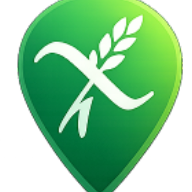
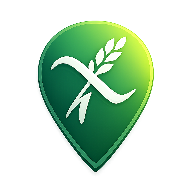
Generado el PWA

diff --git a/public/sw.js b/public/sw.js
@@ -1,1 +1,1 @@
-if(!self.define){let e,s={};const n=(n,a)=>(n=new URL(n+".js",a).href,s[n]||new Promise(s=>{if("document"in self){const e=document.createElement("script");e.src=n,e.onload=s,document.head.appendChild(e)}else e=n,importScripts(n),s()}).then(()=>{let e=s[n];if(!e)throw new Error(`Module ${n} didn’t register its module`);return e}));self.define=(a,i)=>{const t=e||("document"in self?document.currentScript.src:"")||location.href;if(s[t])return;let c={};const l=e=>n(e,t),r={module:{uri:t},exports:c,require:l};s[t]=Promise.all(a.map(e=>r[e]||l(e))).then(e=>(i(...e),c))}}define(["./workbox-4754cb34"],function(e){"use strict";importScripts(),self.skipWaiting(),e.clientsClaim(),e.precacheAndRoute([{url:"/CelimapLOGO.png",revision:"b561ab4a254f186671eb43811cb2695b"},{url:"/_next/app-build-manifest.json",revision:"9923aa5063e3d75868493c5b9c74f6c5"},{url:"/_next/static/4zlx4VnyZhhp_lyjfYR18/_buildManifest.js",revision:"c155cce658e53418dec34664328b51ac"},{url:"/_next/static/4zlx4VnyZhhp_lyjfYR18/_ssgManifest.js",revision:"b6652df95db52feb4daf4eca35380933"},{url:"/_next/static/chunks/117-23a8df4ceb6a25ba.js",revision:"4zlx4VnyZhhp_lyjfYR18"},{url:"/_next/static/chunks/137-4182035b38e72492.js",revision:"4zlx4VnyZhhp_lyjfYR18"},{url:"/_next/static/chunks/554-529c7e2410b8a09c.js",revision:"4zlx4VnyZhhp_lyjfYR18"},{url:"/_next/static/chunks/623-e054f344870558fd.js",revision:"4zlx4VnyZhhp_lyjfYR18"},{url:"/_next/static/chunks/645-3498bccd001dcb42.js",revision:"4zlx4VnyZhhp_lyjfYR18"},{url:"/_next/static/chunks/741-b65201d207d75e6a.js",revision:"4zlx4VnyZhhp_lyjfYR18"},{url:"/_next/static/chunks/84-27d09915b372d4b6.js",revision:"4zlx4VnyZhhp_lyjfYR18"},{url:"/_next/static/chunks/878-9eaf8ddda216c435.js",revision:"4zlx4VnyZhhp_lyjfYR18"},{url:"/_next/static/chunks/927-26f714580509d835.js",revision:"4zlx4VnyZhhp_lyjfYR18"},{url:"/_next/static/chunks/95-230f70ea79eeffa7.js",revision:"4zlx4VnyZhhp_lyjfYR18"},{url:"/_next/static/chunks/965-35825886126a7f91.js",revision:"4zlx4VnyZhhp_lyjfYR18"},{url:"/_next/static/chunks/972-270c0413e286feca.js",revision:"4zlx4VnyZhhp_lyjfYR18"},{url:"/_next/static/chunks/991-9ff13ba5fa23f24d.js",revision:"4zlx4VnyZhhp_lyjfYR18"},{url:"/_next/static/chunks/app/_not-found/page-17c92c4ade106169.js",revision:"4zlx4VnyZhhp_lyjfYR18"},{url:"/_next/static/chunks/app/admin/page-9cee8c1904e23cb7.js",revision:"4zlx4VnyZhhp_lyjfYR18"},{url:"/_next/static/chunks/app/categoria/%5Bcategory%5D/%5BciudadSlug%5D/page-cb84f8d7add51cd7.js",revision:"4zlx4VnyZhhp_lyjfYR18"},{url:"/_next/static/chunks/app/categoria/%5Bcategory%5D/page-0516bcef67e1d846.js",revision:"4zlx4VnyZhhp_lyjfYR18"},{url:"/_next/static/chunks/app/explorar/layout-ab5ef75f75a6b41c.js",revision:"4zlx4VnyZhhp_lyjfYR18"},{url:"/_next/static/chunks/app/explorar/page-92ac7effd697e6e9.js",revision:"4zlx4VnyZhhp_lyjfYR18"},{url:"/_next/static/chunks/app/favoritos/page-ee48a6f6b7745c25.js",revision:"4zlx4VnyZhhp_lyjfYR18"},{url:"/_next/static/chunks/app/layout-dd8589707474a3b2.js",revision:"4zlx4VnyZhhp_lyjfYR18"},{url:"/_next/static/chunks/app/listas/%5Bid%5D/layout-126ac20d7409d2df.js",revision:"4zlx4VnyZhhp_lyjfYR18"},{url:"/_next/static/chunks/app/listas/%5Bid%5D/page-b0ddd6fec4030ef5.js",revision:"4zlx4VnyZhhp_lyjfYR18"},{url:"/_next/static/chunks/app/listas/page-7448c9bd6dbd4382.js",revision:"4zlx4VnyZhhp_lyjfYR18"},{url:"/_next/static/chunks/app/login/page-60fbf9d76a26bfce.js",revision:"4zlx4VnyZhhp_lyjfYR18"},{url:"/_next/static/chunks/app/lugar/%5Bid%5D/layout-3836432c2e122033.js",revision:"4zlx4VnyZhhp_lyjfYR18"},{url:"/_next/static/chunks/app/lugar/%5Bid%5D/page-da7ab1a46264efcb.js",revision:"4zlx4VnyZhhp_lyjfYR18"},{url:"/_next/static/chunks/app/mapa/layout-14d49915c9907567.js",revision:"4zlx4VnyZhhp_lyjfYR18"},{url:"/_next/static/chunks/app/mapa/page-62a5fb9c48e473c9.js",revision:"4zlx4VnyZhhp_lyjfYR18"},{url:"/_next/static/chunks/app/not-found-66286987ef04752c.js",revision:"4zlx4VnyZhhp_lyjfYR18"},{url:"/_next/static/chunks/app/page-521f78f52ff763e2.js",revision:"4zlx4VnyZhhp_lyjfYR18"},{url:"/_next/static/chunks/app/perfil/page-3a73566e024c2fc2.js",revision:"4zlx4VnyZhhp_lyjfYR18"},{url:"/_next/static/chunks/app/sin-gluten-argentina/page-db04f7cef4af05ee.js",revision:"4zlx4VnyZhhp_lyjfYR18"},{url:"/_next/static/chunks/app/sin-gluten/%5BciudadSlug%5D/%5BcategoriaSlug%5D/page-beb5e73ca340ab57.js",revision:"4zlx4VnyZhhp_lyjfYR18"},{url:"/_next/static/chunks/app/sin-gluten/%5BciudadSlug%5D/page-5670683427c2aca7.js",revision:"4zlx4VnyZhhp_lyjfYR18"},{url:"/_next/static/chunks/app/sugerir/layout-3b6f839e48a3bdaa.js",revision:"4zlx4VnyZhhp_lyjfYR18"},{url:"/_next/static/chunks/app/sugerir/page-95c62e303b2734f6.js",revision:"4zlx4VnyZhhp_lyjfYR18"},{url:"/_next/static/chunks/app/top-sin-gluten/ciudad/%5BciudadSlug%5D/page-257ccc8135c9a7e3.js",revision:"4zlx4VnyZhhp_lyjfYR18"},{url:"/_next/static/chunks/c36f3faa-4264f80c93dfb244.js",revision:"4zlx4VnyZhhp_lyjfYR18"},{url:"/_next/static/chunks/fd9d1056-ed5914ba420c798d.js",revision:"4zlx4VnyZhhp_lyjfYR18"},{url:"/_next/static/chunks/framework-f66176bb897dc684.js",revision:"4zlx4VnyZhhp_lyjfYR18"},{url:"/_next/static/chunks/main-app-d713edd7a5b7b55b.js",revision:"4zlx4VnyZhhp_lyjfYR18"},{url:"/_next/static/chunks/main-bfb051cc14b70abd.js",revision:"4zlx4VnyZhhp_lyjfYR18"},{url:"/_next/static/chunks/pages/_app-72b849fbd24ac258.js",revision:"4zlx4VnyZhhp_lyjfYR18"},{url:"/_next/static/chunks/pages/_error-7ba65e1336b92748.js",revision:"4zlx4VnyZhhp_lyjfYR18"},{url:"/_next/static/chunks/polyfills-42372ed130431b0a.js",revision:"846118c33b2c0e922d7b3a7676f81f6f"},{url:"/_next/static/chunks/webpack-3ee1050149d7ab73.js",revision:"4zlx4VnyZhhp_lyjfYR18"},{url:"/_next/static/css/0c7fd1349b5742ad.css",revision:"0c7fd1349b5742ad"},{url:"/_next/static/css/46b5da72eaf48baa.css",revision:"46b5da72eaf48baa"},{url:"/_next/static/media/636a5ac981f94f8b-s.p.woff2",revision:"52d04440a9faae0db9adc6cdc844099b"},{url:"/_next/static/media/6fe53d21e6e7ebd8-s.woff2",revision:"2591db816b61d44b6e87ba79d13622b2"},{url:"/_next/static/media/8ebc6e9dde468c4a-s.woff2",revision:"196acbb650c75807ea2f0ef36edbd186"},{url:"/_next/static/media/9e7b0a821b9dfcb4-s.woff2",revision:"5ffe46eeb00dd9fa8a70cb10ccc3817e"},{url:"/celimaplogocompleto.png",revision:"945ad560d3703b2296d1424d33615228"},{url:"/favicon.ico",revision:"6a99c575ab87f8c7d1ed1e52e7e349ce"},{url:"/icon-192.png",revision:"adf8bada41d66d2e156b2e283f65f039"},{url:"/icon-512.png",revision:"e9b782c55ead80236cc297fc319a1e12"},{url:"/manifest.webmanifest",revision:"f45f491cc7b9d072fafac565c8223ccb"},{url:"/maskable-512.png",revision:"446de51ddf3a2cef9952c1b5f2ff0ba0"},{url:"/noise.png",revision:"d0e98e8b8e55bcfbb15a0ae94f46910f"},{url:"/og.png",revision:"51fca7a62dbc16634937de64913c1458"},{url:"/sin-gluten-logo.png",revision:"e9b7ea67ad79ccb304a525c81c2890dc"}],{ignoreURLParametersMatching:[]}),e.cleanupOutdatedCaches(),e.registerRoute("/",new e.NetworkFirst({cacheName:"start-url",plugins:[{cacheWillUpdate:async({request:e,response:s,event:n,state:a})=>s&&"opaqueredirect"===s.type?new Response(s.body,{status:200,statusText:"OK",headers:s.headers}):s}]}),"GET"),e.registerRoute(/^https:\/\/fonts\.(?:gstatic)\.com\/.*/i,new e.CacheFirst({cacheName:"google-fonts-webfonts",plugins:[new e.ExpirationPlugin({maxEntries:4,maxAgeSeconds:31536e3})]}),"GET"),e.registerRoute(/^https:\/\/fonts\.(?:googleapis)\.com\/.*/i,new e.StaleWhileRevalidate({cacheName:"google-fonts-stylesheets",plugins:[new e.ExpirationPlugin({maxEntries:4,maxAgeSeconds:604800})]}),"GET"),e.registerRoute(/\.(?:eot|otf|ttc|ttf|woff|woff2|font.css)$/i,new e.StaleWhileRevalidate({cacheName:"static-font-assets",plugins:[new e.ExpirationPlugin({maxEntries:4,maxAgeSeconds:604800})]}),"GET"),e.registerRoute(/\.(?:jpg|jpeg|gif|png|svg|ico|webp)$/i,new e.StaleWhileRevalidate({cacheName:"static-image-assets",plugins:[new e.ExpirationPlugin({maxEntries:64,maxAgeSeconds:86400})]}),"GET"),e.registerRoute(/\/_next\/image\?url=.+$/i,new e.StaleWhileRevalidate({cacheName:"next-image",plugins:[new e.ExpirationPlugin({maxEntries:64,maxAgeSeconds:86400})]}),"GET"),e.registerRoute(/\.(?:mp3|wav|ogg)$/i,new e.CacheFirst({cacheName:"static-audio-assets",plugins:[new e.RangeRequestsPlugin,new e.ExpirationPlugin({maxEntries:32,maxAgeSeconds:86400})]}),"GET"),e.registerRoute(/\.(?:mp4)$/i,new e.CacheFirst({cacheName:"static-video-assets",plugins:[new e.RangeRequestsPlugin,new e.ExpirationPlugin({maxEntries:32,maxAgeSeconds:86400})]}),"GET"),e.registerRoute(/\.(?:js)$/i,new e.StaleWhileRevalidate({cacheName:"static-js-assets",plugins:[new e.ExpirationPlugin({maxEntries:32,maxAgeSeconds:86400})]}),"GET"),e.registerRoute(/\.(?:css|less)$/i,new e.StaleWhileRevalidate({cacheName:"static-style-assets",plugins:[new e.ExpirationPlugin({maxEntries:32,maxAgeSeconds:86400})]}),"GET"),e.registerRoute(/\/_next\/data\/.+\/.+\.json$/i,new e.StaleWhileRevalidate({cacheName:"next-data",plugins:[new e.ExpirationPlugin({maxEntries:32,maxAgeSeconds:86400})]}),"GET"),e.registerRoute(/\.(?:json|xml|csv)$/i,new e.NetworkFirst({cacheName:"static-data-assets",plugins:[new e.ExpirationPlugin({maxEntries:32,maxAgeSeconds:86400})]}),"GET"),e.registerRoute(({url:e})=>{if(!(self.origin===e.origin))return!1;const s=e.pathname;return!s.startsWith("/api/auth/")&&!!s.startsWith("/api/")},new e.NetworkFirst({cacheName:"apis",networkTimeoutSeconds:10,plugins:[new e.ExpirationPlugin({maxEntries:16,maxAgeSeconds:86400})]}),"GET"),e.registerRoute(({url:e})=>{if(!(self.origin===e.origin))return!1;return!e.pathname.startsWith("/api/")},new e.NetworkFirst({cacheName:"others",networkTimeoutSeconds:10,plugins:[new e.ExpirationPlugin({maxEntries:32,maxAgeSeconds:86400})]}),"GET"),e.registerRoute(({url:e})=>!(self.origin===e.origin),new e.NetworkFirst({cacheName:"cross-origin",networkTimeoutSeconds:10,plugins:[new e.ExpirationPlugin({maxEntries:32,maxAgeSeconds:3600})]}),"GET")});
+if(!self.define){let e,s={};const i=(i,a)=>(i=new URL(i+".js",a).href,s[i]||new Promise(s=>{if("document"in self){const e=document.createElement("script");e.src=i,e.onload=s,document.head.appendChild(e)}else e=i,importScripts(i),s()}).then(()=>{let e=s[i];if(!e)throw new Error(`Module ${i} didn’t register its module`);return e}));self.define=(a,n)=>{const t=e||("document"in self?document.currentScript.src:"")||location.href;if(s[t])return;let c={};const r=e=>i(e,t),u={module:{uri:t},exports:c,require:r};s[t]=Promise.all(a.map(e=>u[e]||r(e))).then(e=>(n(...e),c))}}define(["./workbox-4754cb34"],function(e){"use strict";importScripts(),self.skipWaiting(),e.clientsClaim(),e.precacheAndRoute([{url:"/CelimapLOGO.png",revision:"b561ab4a254f186671eb43811cb2695b"},{url:"/_next/app-build-manifest.json",revision:"05a8514b2a4e9d041898341bb9829b61"},{url:"/_next/static/AWITKyVJ4iJb26IAjrR6O/_buildManifest.js",revision:"c155cce658e53418dec34664328b51ac"},{url:"/_next/static/AWITKyVJ4iJb26IAjrR6O/_ssgManifest.js",revision:"b6652df95db52feb4daf4eca35380933"},{url:"/_next/static/chunks/117-23a8df4ceb6a25ba.js",revision:"AWITKyVJ4iJb26IAjrR6O"},{url:"/_next/static/chunks/137-4182035b38e72492.js",revision:"AWITKyVJ4iJb26IAjrR6O"},{url:"/_next/static/chunks/554-529c7e2410b8a09c.js",revision:"AWITKyVJ4iJb26IAjrR6O"},{url:"/_next/static/chunks/623-e054f344870558fd.js",revision:"AWITKyVJ4iJb26IAjrR6O"},{url:"/_next/static/chunks/645-3498bccd001dcb42.js",revision:"AWITKyVJ4iJb26IAjrR6O"},{url:"/_next/static/chunks/741-b65201d207d75e6a.js",revision:"AWITKyVJ4iJb26IAjrR6O"},{url:"/_next/static/chunks/84-27d09915b372d4b6.js",revision:"AWITKyVJ4iJb26IAjrR6O"},{url:"/_next/static/chunks/878-9eaf8ddda216c435.js",revision:"AWITKyVJ4iJb26IAjrR6O"},{url:"/_next/static/chunks/927-26f714580509d835.js",revision:"AWITKyVJ4iJb26IAjrR6O"},{url:"/_next/static/chunks/95-230f70ea79eeffa7.js",revision:"AWITKyVJ4iJb26IAjrR6O"},{url:"/_next/static/chunks/965-35825886126a7f91.js",revision:"AWITKyVJ4iJb26IAjrR6O"},{url:"/_next/static/chunks/972-270c0413e286feca.js",revision:"AWITKyVJ4iJb26IAjrR6O"},{url:"/_next/static/chunks/991-9ff13ba5fa23f24d.js",revision:"AWITKyVJ4iJb26IAjrR6O"},{url:"/_next/static/chunks/app/_not-found/page-7ba84e0fc4b7f4d4.js",revision:"AWITKyVJ4iJb26IAjrR6O"},{url:"/_next/static/chunks/app/admin/page-9cee8c1904e23cb7.js",revision:"AWITKyVJ4iJb26IAjrR6O"},{url:"/_next/static/chunks/app/categoria/%5Bcategory%5D/%5BciudadSlug%5D/page-cb84f8d7add51cd7.js",revision:"AWITKyVJ4iJb26IAjrR6O"},{url:"/_next/static/chunks/app/categoria/%5Bcategory%5D/page-0516bcef67e1d846.js",revision:"AWITKyVJ4iJb26IAjrR6O"},{url:"/_next/static/chunks/app/explorar/layout-ab5ef75f75a6b41c.js",revision:"AWITKyVJ4iJb26IAjrR6O"},{url:"/_next/static/chunks/app/explorar/page-92ac7effd697e6e9.js",revision:"AWITKyVJ4iJb26IAjrR6O"},{url:"/_next/static/chunks/app/favoritos/page-ee48a6f6b7745c25.js",revision:"AWITKyVJ4iJb26IAjrR6O"},{url:"/_next/static/chunks/app/layout-dd8589707474a3b2.js",revision:"AWITKyVJ4iJb26IAjrR6O"},{url:"/_next/static/chunks/app/listas/%5Bid%5D/layout-2c84e834dee5e690.js",revision:"AWITKyVJ4iJb26IAjrR6O"},{url:"/_next/static/chunks/app/listas/%5Bid%5D/page-b0ddd6fec4030ef5.js",revision:"AWITKyVJ4iJb26IAjrR6O"},{url:"/_next/static/chunks/app/listas/page-7448c9bd6dbd4382.js",revision:"AWITKyVJ4iJb26IAjrR6O"},{url:"/_next/static/chunks/app/login/page-60fbf9d76a26bfce.js",revision:"AWITKyVJ4iJb26IAjrR6O"},{url:"/_next/static/chunks/app/lugar/%5Bid%5D/layout-180682f216874612.js",revision:"AWITKyVJ4iJb26IAjrR6O"},{url:"/_next/static/chunks/app/lugar/%5Bid%5D/page-da7ab1a46264efcb.js",revision:"AWITKyVJ4iJb26IAjrR6O"},{url:"/_next/static/chunks/app/mapa/layout-5cdf47001f63f766.js",revision:"AWITKyVJ4iJb26IAjrR6O"},{url:"/_next/static/chunks/app/mapa/page-62a5fb9c48e473c9.js",revision:"AWITKyVJ4iJb26IAjrR6O"},{url:"/_next/static/chunks/app/not-found-66286987ef04752c.js",revision:"AWITKyVJ4iJb26IAjrR6O"},{url:"/_next/static/chunks/app/page-521f78f52ff763e2.js",revision:"AWITKyVJ4iJb26IAjrR6O"},{url:"/_next/static/chunks/app/perfil/page-3a73566e024c2fc2.js",revision:"AWITKyVJ4iJb26IAjrR6O"},{url:"/_next/static/chunks/app/sin-gluten-argentina/page-db04f7cef4af05ee.js",revision:"AWITKyVJ4iJb26IAjrR6O"},{url:"/_next/static/chunks/app/sin-gluten/%5BciudadSlug%5D/%5BcategoriaSlug%5D/page-beb5e73ca340ab57.js",revision:"AWITKyVJ4iJb26IAjrR6O"},{url:"/_next/static/chunks/app/sin-gluten/%5BciudadSlug%5D/page-5670683427c2aca7.js",revision:"AWITKyVJ4iJb26IAjrR6O"},{url:"/_next/static/chunks/app/sugerir/layout-3b6f839e48a3bdaa.js",revision:"AWITKyVJ4iJb26IAjrR6O"},{url:"/_next/static/chunks/app/sugerir/page-95c62e303b2734f6.js",revision:"AWITKyVJ4iJb26IAjrR6O"},{url:"/_next/static/chunks/app/top-sin-gluten/ciudad/%5BciudadSlug%5D/page-257ccc8135c9a7e3.js",revision:"AWITKyVJ4iJb26IAjrR6O"},{url:"/_next/static/chunks/c36f3faa-4264f80c93dfb244.js",revision:"AWITKyVJ4iJb26IAjrR6O"},{url:"/_next/static/chunks/fd9d1056-ed5914ba420c798d.js",revision:"AWITKyVJ4iJb26IAjrR6O"},{url:"/_next/static/chunks/framework-f66176bb897dc684.js",revision:"AWITKyVJ4iJb26IAjrR6O"},{url:"/_next/static/chunks/main-app-d713edd7a5b7b55b.js",revision:"AWITKyVJ4iJb26IAjrR6O"},{url:"/_next/static/chunks/main-bfb051cc14b70abd.js",revision:"AWITKyVJ4iJb26IAjrR6O"},{url:"/_next/static/chunks/pages/_app-72b849fbd24ac258.js",revision:"AWITKyVJ4iJb26IAjrR6O"},{url:"/_next/static/chunks/pages/_error-7ba65e1336b92748.js",revision:"AWITKyVJ4iJb26IAjrR6O"},{url:"/_next/static/chunks/polyfills-42372ed130431b0a.js",revision:"846118c33b2c0e922d7b3a7676f81f6f"},{url:"/_next/static/chunks/webpack-3ee1050149d7ab73.js",revision:"AWITKyVJ4iJb26IAjrR6O"},{url:"/_next/static/css/0c7fd1349b5742ad.css",revision:"0c7fd1349b5742ad"},{url:"/_next/static/css/46b5da72eaf48baa.css",revision:"46b5da72eaf48baa"},{url:"/_next/static/media/636a5ac981f94f8b-s.p.woff2",revision:"52d04440a9faae0db9adc6cdc844099b"},{url:"/_next/static/media/6fe53d21e6e7ebd8-s.woff2",revision:"2591db816b61d44b6e87ba79d13622b2"},{url:"/_next/static/media/8ebc6e9dde468c4a-s.woff2",revision:"196acbb650c75807ea2f0ef36edbd186"},{url:"/_next/static/media/9e7b0a821b9dfcb4-s.woff2",revision:"5ffe46eeb00dd9fa8a70cb10ccc3817e"},{url:"/celimaplogocompleto.png",revision:"945ad560d3703b2296d1424d33615228"},{url:"/celimappwa.png",revision:"105e9ebdf9d12e8d5e39f46a81cf843b"},{url:"/favicon.ico",revision:"6a99c575ab87f8c7d1ed1e52e7e349ce"},{url:"/icon-192.png",revision:"c9a4be573350c3dacbe87c3a96266f56"},{url:"/icon-512.png",revision:"a7ef2067031e118f654961dc4750f1d8"},{url:"/manifest.webmanifest",revision:"f45f491cc7b9d072fafac565c8223ccb"},{url:"/maskable-512.png",revision:"a7ef2067031e118f654961dc4750f1d8"},{url:"/noise.png",revision:"d0e98e8b8e55bcfbb15a0ae94f46910f"},{url:"/og.png",revision:"51fca7a62dbc16634937de64913c1458"},{url:"/sin-gluten-logo.png",revision:"e9b7ea67ad79ccb304a525c81c2890dc"}],{ignoreURLParametersMatching:[]}),e.cleanupOutdatedCaches(),e.registerRoute("/",new e.NetworkFirst({cacheName:"start-url",plugins:[{cacheWillUpdate:async({request:e,response:s,event:i,state:a})=>s&&"opaqueredirect"===s.type?new Response(s.body,{status:200,statusText:"OK",headers:s.headers}):s}]}),"GET"),e.registerRoute(/^https:\/\/fonts\.(?:gstatic)\.com\/.*/i,new e.CacheFirst({cacheName:"google-fonts-webfonts",plugins:[new e.ExpirationPlugin({maxEntries:4,maxAgeSeconds:31536e3})]}),"GET"),e.registerRoute(/^https:\/\/fonts\.(?:googleapis)\.com\/.*/i,new e.StaleWhileRevalidate({cacheName:"google-fonts-stylesheets",plugins:[new e.ExpirationPlugin({maxEntries:4,maxAgeSeconds:604800})]}),"GET"),e.registerRoute(/\.(?:eot|otf|ttc|ttf|woff|woff2|font.css)$/i,new e.StaleWhileRevalidate({cacheName:"static-font-assets",plugins:[new e.ExpirationPlugin({maxEntries:4,maxAgeSeconds:604800})]}),"GET"),e.registerRoute(/\.(?:jpg|jpeg|gif|png|svg|ico|webp)$/i,new e.StaleWhileRevalidate({cacheName:"static-image-assets",plugins:[new e.ExpirationPlugin({maxEntries:64,maxAgeSeconds:86400})]}),"GET"),e.registerRoute(/\/_next\/image\?url=.+$/i,new e.StaleWhileRevalidate({cacheName:"next-image",plugins:[new e.ExpirationPlugin({maxEntries:64,maxAgeSeconds:86400})]}),"GET"),e.registerRoute(/\.(?:mp3|wav|ogg)$/i,new e.CacheFirst({cacheName:"static-audio-assets",plugins:[new e.RangeRequestsPlugin,new e.ExpirationPlugin({maxEntries:32,maxAgeSeconds:86400})]}),"GET"),e.registerRoute(/\.(?:mp4)$/i,new e.CacheFirst({cacheName:"static-video-assets",plugins:[new e.RangeRequestsPlugin,new e.ExpirationPlugin({maxEntries:32,maxAgeSeconds:86400})]}),"GET"),e.registerRoute(/\.(?:js)$/i,new e.StaleWhileRevalidate({cacheName:"static-js-assets",plugins:[new e.ExpirationPlugin({maxEntries:32,maxAgeSeconds:86400})]}),"GET"),e.registerRoute(/\.(?:css|less)$/i,new e.StaleWhileRevalidate({cacheName:"static-style-assets",plugins:[new e.ExpirationPlugin({maxEntries:32,maxAgeSeconds:86400})]}),"GET"),e.registerRoute(/\/_next\/data\/.+\/.+\.json$/i,new e.StaleWhileRevalidate({cacheName:"next-data",plugins:[new e.ExpirationPlugin({maxEntries:32,maxAgeSeconds:86400})]}),"GET"),e.registerRoute(/\.(?:json|xml|csv)$/i,new e.NetworkFirst({cacheName:"static-data-assets",plugins:[new e.ExpirationPlugin({maxEntries:32,maxAgeSeconds:86400})]}),"GET"),e.registerRoute(({url:e})=>{if(!(self.origin===e.origin))return!1;const s=e.pathname;return!s.startsWith("/api/auth/")&&!!s.startsWith("/api/")},new e.NetworkFirst({cacheName:"apis",networkTimeoutSeconds:10,plugins:[new e.ExpirationPlugin({maxEntries:16,maxAgeSeconds:86400})]}),"GET"),e.registerRoute(({url:e})=>{if(!(self.origin===e.origin))return!1;return!e.pathname.startsWith("/api/")},new e.NetworkFirst({cacheName:"others",networkTimeoutSeconds:10,plugins:[new e.ExpirationPlugin({maxEntries:32,maxAgeSeconds:86400})]}),"GET"),e.registerRoute(({url:e})=>!(self.origin===e.origin),new e.NetworkFirst({cacheName:"cross-origin",networkTimeoutSeconds:10,plugins:[new e.ExpirationPlugin({maxEntries:32,maxAgeSeconds:3600})]}),"GET")});

diff --git a/scripts/generate-pwa-assets.ts b/scripts/generate-pwa-assets.ts
@@ -6,6 +6,9 @@ const ROOT = process.cwd()
 const PUBLIC_DIR = path.join(ROOT, "public")
 const LOGO_REL = "CelimapLOGO.png"
 const LOGO_PATH = path.join(PUBLIC_DIR, LOGO_REL)
+/** Arte dedicado PWA (full-bleed / maskable ya pensado por diseño) */
+const PWA_ART_REL = "celimappwa.png"
+const PWA_ART_PATH = path.join(PUBLIC_DIR, PWA_ART_REL)
 
 /** Fondo maskable / theme, alineado con manifest */
 const MASK_BG: [number, number, number, number] = [11, 18, 32, 255]
@@ -215,37 +218,51 @@ function makeMaskable512(src: PNG): PNG {
   return out
 }
 
-function ensureSourceLogoPng(): PNG {
-  if (!fs.existsSync(LOGO_PATH)) {
-    const png = new PNG({ width: 512, height: 512 })
-    drawPlaceholderLogo(png)
-    writePng(LOGO_REL, png)
-    return png
-  }
+function readPngFile(absPath: string): PNG | null {
   try {
-    return PNG.sync.read(fs.readFileSync(LOGO_PATH))
+    return PNG.sync.read(fs.readFileSync(absPath))
   } catch {
-    const png = new PNG({ width: 512, height: 512 })
-    drawPlaceholderLogo(png)
-    writePng(LOGO_REL, png)
-    return png
+    return null
   }
+}
+
+/** Asegura logo sitio para OG/JSON-LD; no tocar si ya existe */
+function ensureCelimapLogoPlaceholder(): void {
+  if (fs.existsSync(LOGO_PATH)) return
+  const png = new PNG({ width: 512, height: 512 })
+  drawPlaceholderLogo(png)
+  writePng(LOGO_REL, png)
+}
+
+/**
+ * Fuente iconos PWA: celimappwa.png si existe; si no CelimapLOGO.png; si no placeholder.
+ */
+function loadPwaIconSource(): { png: PNG; sourceLabel: string; isDedicatedPwaArt: boolean } {
+  const fromPwaArt = readPngFile(PWA_ART_PATH)
+  if (fromPwaArt) return { png: fromPwaArt, sourceLabel: PWA_ART_REL, isDedicatedPwaArt: true }
+
+  ensureCelimapLogoPlaceholder()
+  const fromLogo = readPngFile(LOGO_PATH)
+  if (fromLogo) return { png: fromLogo, sourceLabel: LOGO_REL, isDedicatedPwaArt: false }
+
+  const png = new PNG({ width: 512, height: 512 })
+  drawPlaceholderLogo(png)
+  writePng(LOGO_REL, png)
+  return { png, sourceLabel: `${LOGO_REL} (placeholder)`, isDedicatedPwaArt: false }
 }
 
 ensureDir(PUBLIC_DIR)
 
-const logo = ensureSourceLogoPng()
+const { png: pwaSrc, sourceLabel, isDedicatedPwaArt } = loadPwaIconSource()
 
-// Siempre regenerar iconos desde CelimapLOGO.png (mismo asset que sitio / JSON-LD / mails)
-writePng("icon-192.png", resizeCropCenterSquare(logo, 192, 192))
-writePng("icon-512.png", resizeCropCenterSquare(logo, 512, 512))
-writePng("maskable-512.png", makeMaskable512(logo))
+writePng("icon-192.png", resizeCropCenterSquare(pwaSrc, 192, 192))
+writePng("icon-512.png", resizeCropCenterSquare(pwaSrc, 512, 512))
+// Arte PWA dedicado: ya viene con safe zone / fondo; no encoger en canvas extra
+writePng(
+  "maskable-512.png",
+  isDedicatedPwaArt ? resizeCropCenterSquare(pwaSrc, 512, 512) : makeMaskable512(pwaSrc),
+)
 
 writePngIfMissing("og.png", 1200, 630, drawOg)
 
-console.log(
-  "[pwa] icons from",
-  LOGO_REL,
-  "→",
-  ["icon-192.png", "icon-512.png", "maskable-512.png"].join(", "),
-)
+console.log("[pwa] icons from", sourceLabel, "→", ["icon-192.png", "icon-512.png", "maskable-512.png"].join(", "))
